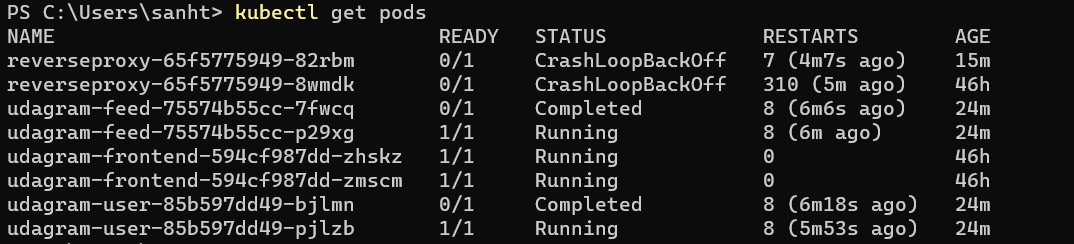
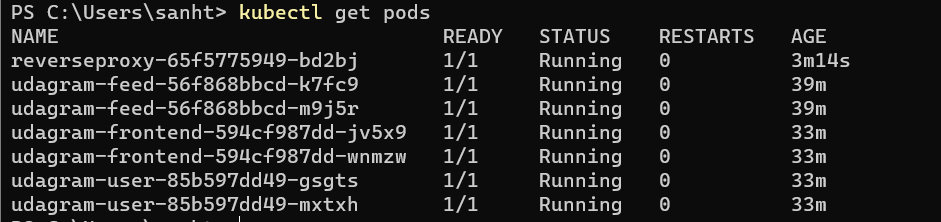
update config

Changed region(s): [[0.0, 0.0, 0.9245, 1.0], [0.8321, 0.6757, 0.9245, 0.7838]]

diff --git a/udagram-frontend/src/environments/environment.prod.ts b/udagram-frontend/src/environments/environment.prod.ts
@@ -5,7 +5,7 @@
 export const environment = {
   production: false,
   appName: 'Udagram',
-  apiHost: 'http://localhost:8080/api/v0'
+  apiHost: 'http://ac1e9606c97cd463fab7c7981e5d741a-798299005.us-west-1.elb.amazonaws.com:8080/api/v0'
 };
 
 /*

diff --git a/udagram-frontend/src/environments/environment.ts b/udagram-frontend/src/environments/environment.ts
@@ -5,7 +5,7 @@
 export const environment = {
   production: false,
   appName: 'Udagram',
-  apiHost: 'http://localhost:8080/api/v0'
+  apiHost: 'http://ac1e9606c97cd463fab7c7981e5d741a-798299005.us-west-1.elb.amazonaws.com:8080/api/v0'
 };
 
 /*
